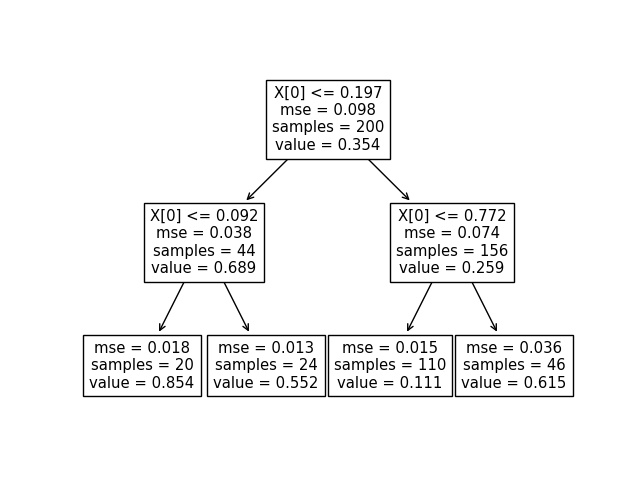
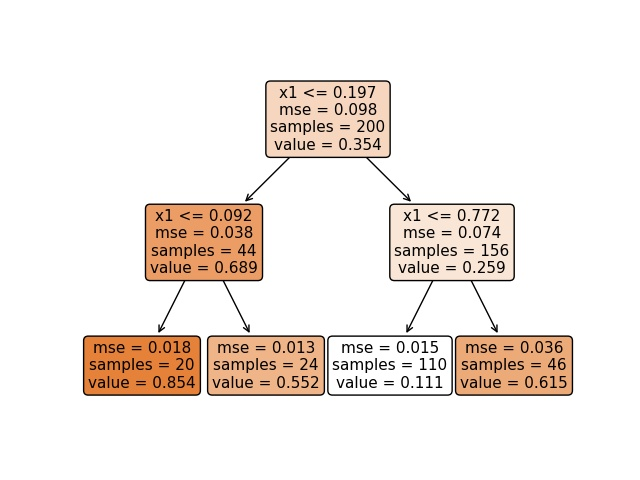
Committed 2021/05/05

diff --git a/Hands on Machine Learning2/Chapter6 - Decision Trees/Decision_Tree_Regressor.py b/Hands on Machine Learning2/Chapter6 - Decision Trees/Decision_Tree_Regressor.py
@@ -15,9 +15,9 @@ y = y + np.random.randn(m, 1) / 10
 
 # Training a DecisionTree Regressor
 
-tree_reg = DecisionTreeRegressor(max_depth=2)
+tree_reg = DecisionTreeRegressor(max_depth=2, random_state=42)
 tree_reg.fit(X=X, y=y)
 
-tree.plot_tree(decision_tree=tree_reg)
+tree.plot_tree(decision_tree=tree_reg, feature_names=["x1"], rounded=True, filled=True)
 
 plt.savefig("Decision_Tree_Regressor.jpg")
